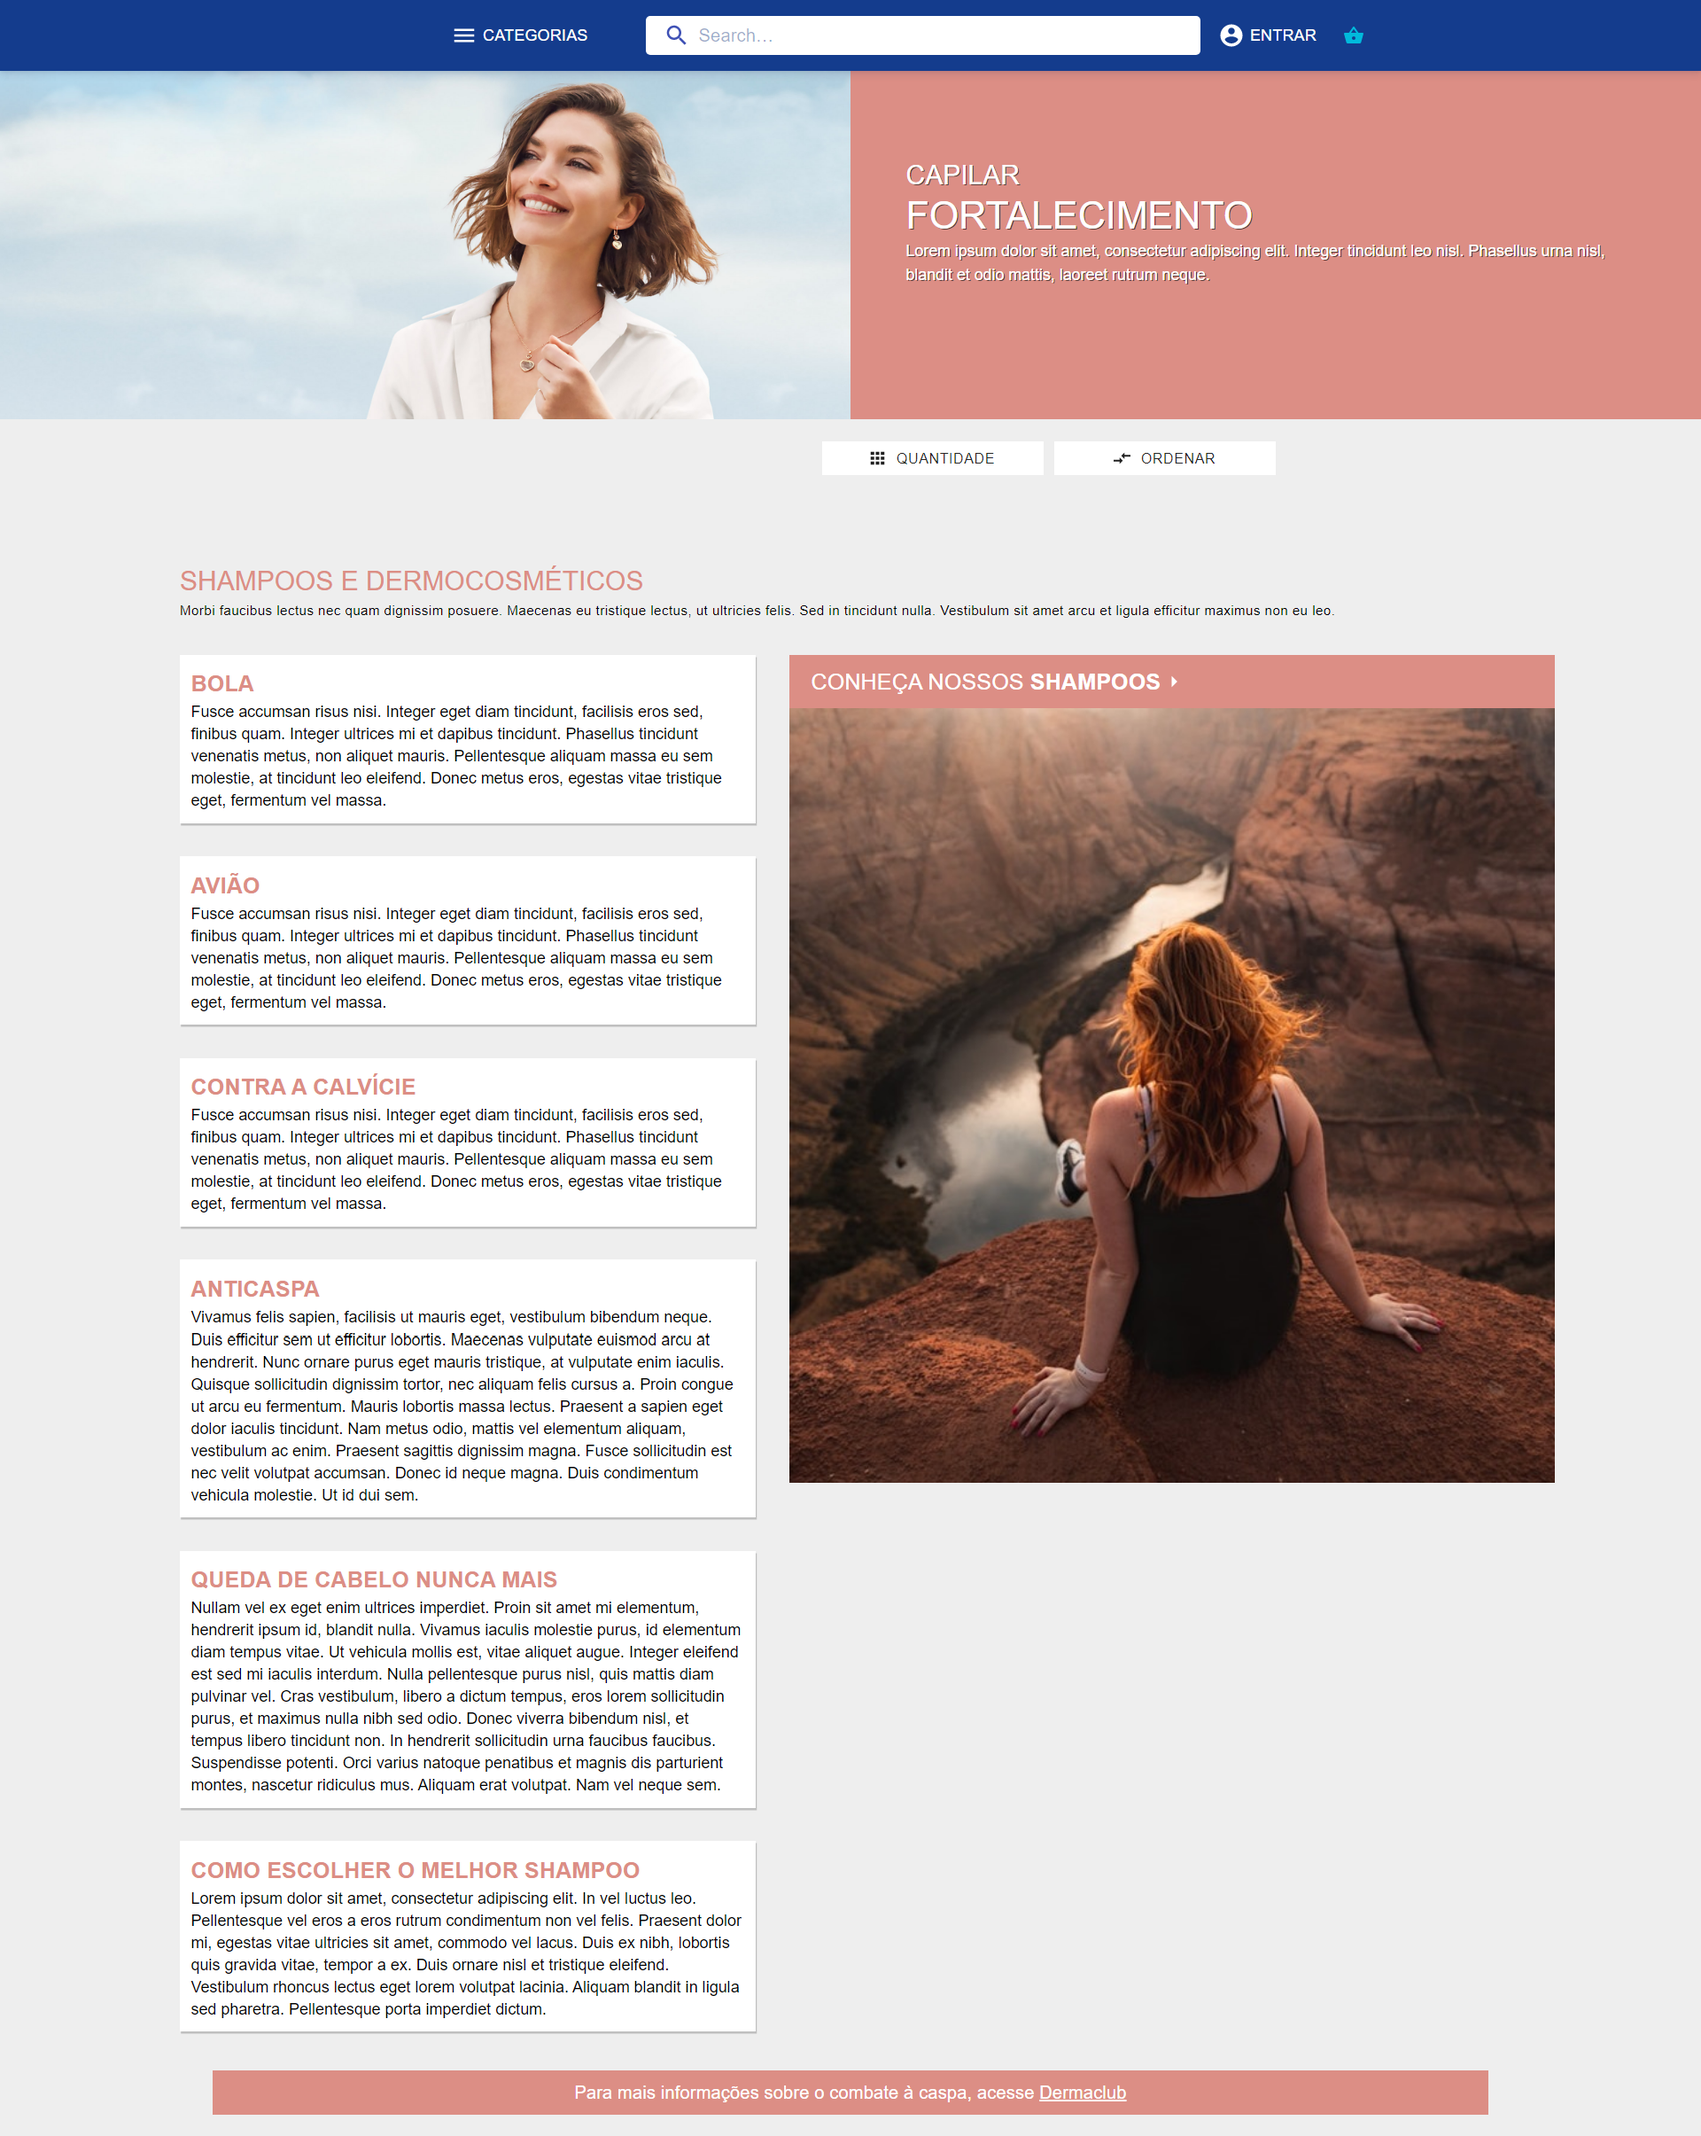
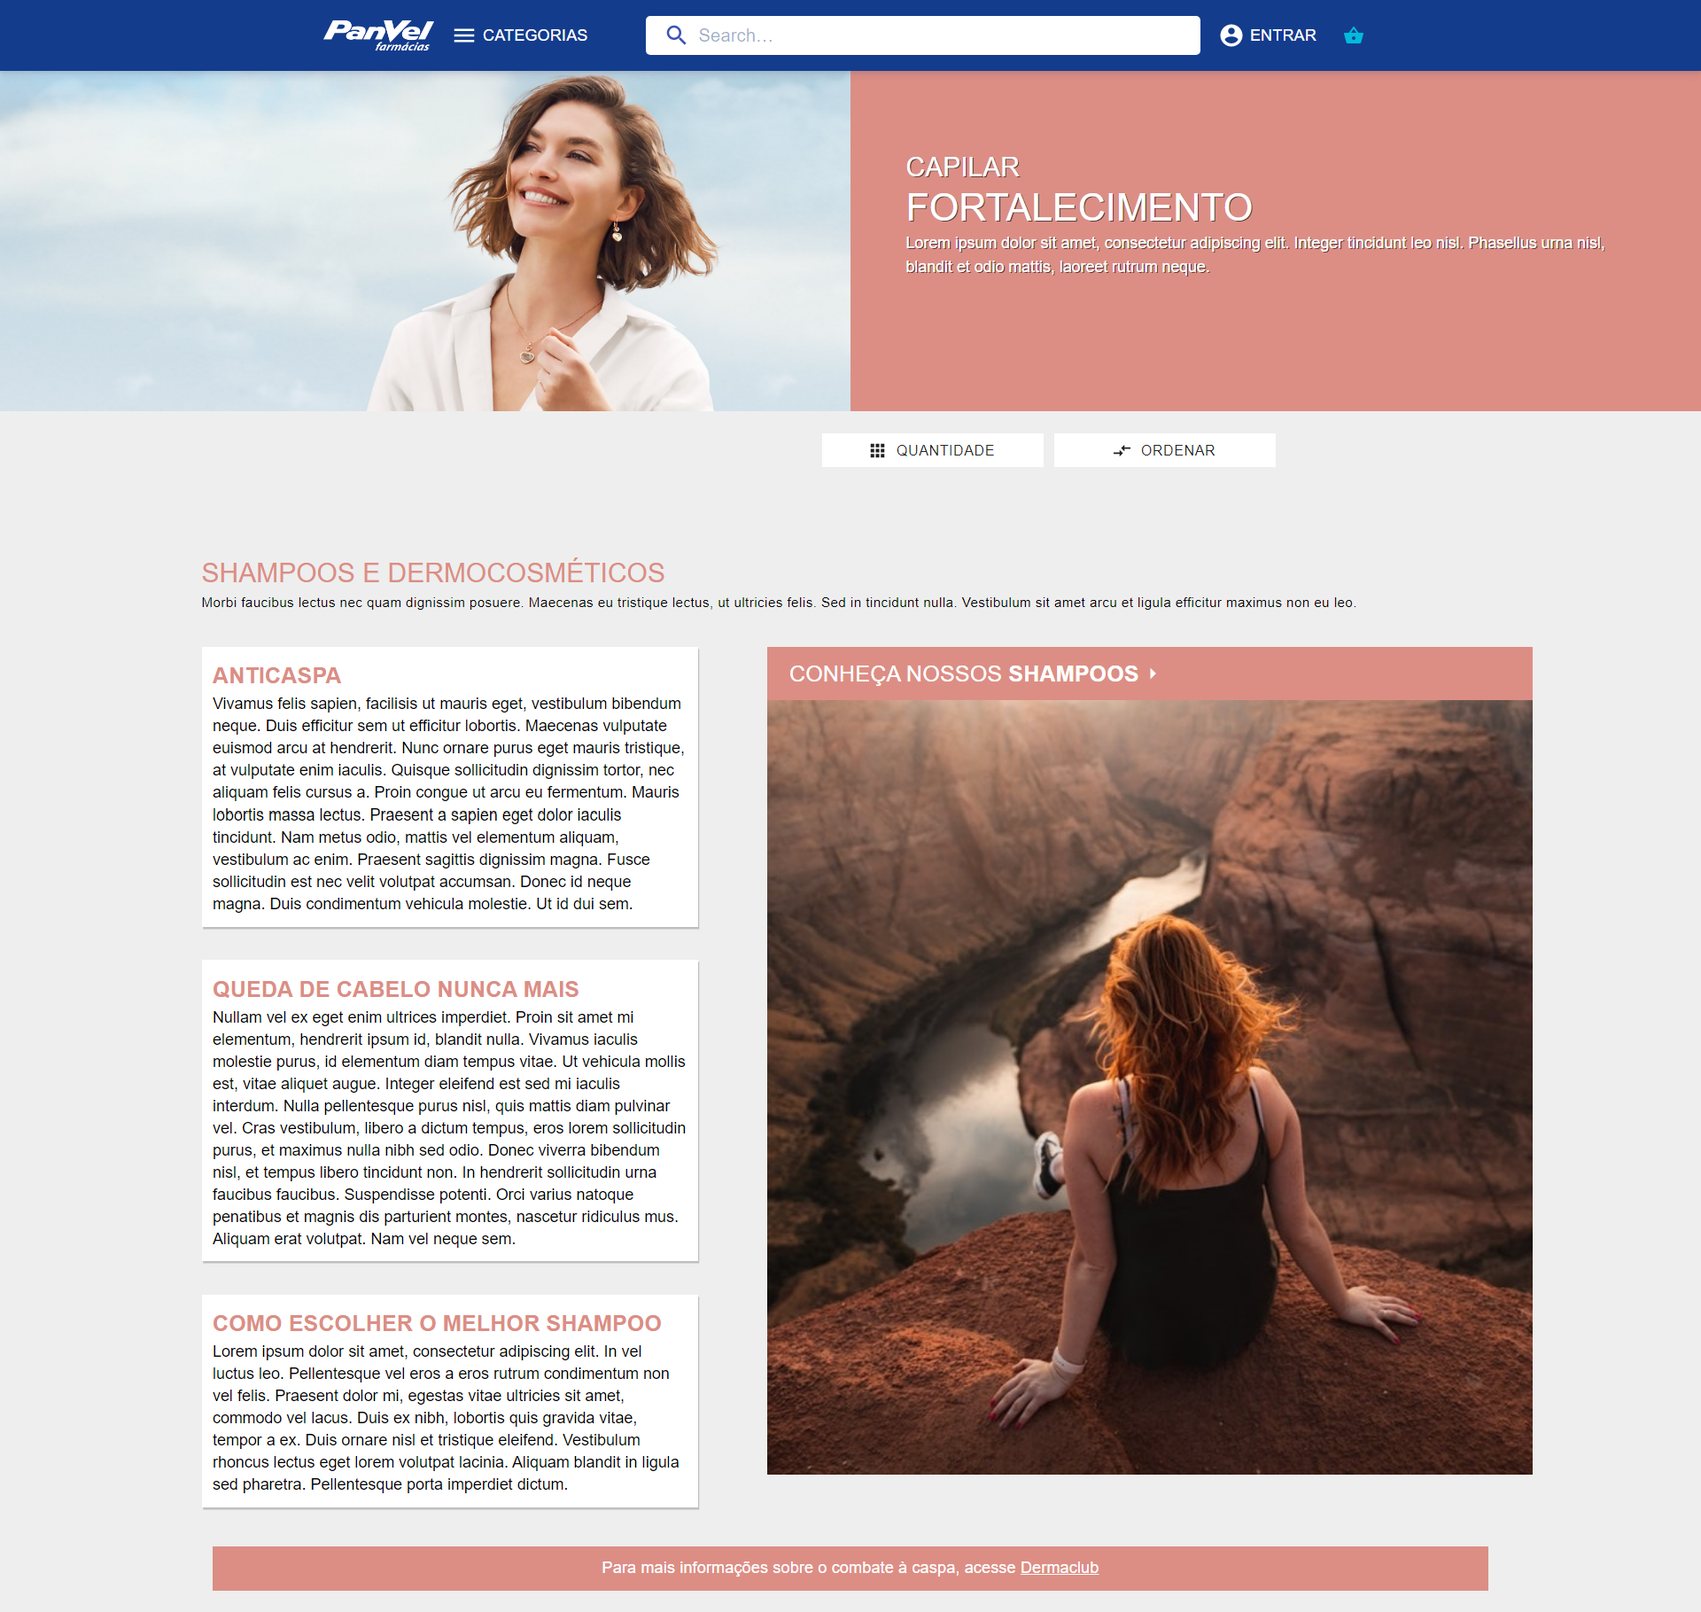
Finished

diff --git a/src/components/Header/index.jsx b/src/components/Header/index.jsx
@@ -88,10 +88,6 @@ export default function Header() {
   const isMenuOpen = Boolean(anchorEl);
   const isMobileMenuOpen = Boolean(mobileMoreAnchorEl);
 
-  const handleProfileMenuOpen = (event) => {
-    setAnchorEl(event.currentTarget);
-  };
-
   const handleMobileMenuClose = () => {
     setMobileMoreAnchorEl(null);
   };
@@ -113,7 +109,7 @@ export default function Header() {
     placeItems: 'center',
   });
 
-  const StyledImg = styled('div')({
+  const StyledImg = styled('img')({
     width: '100px',
     marginRight: '15px',
   });
